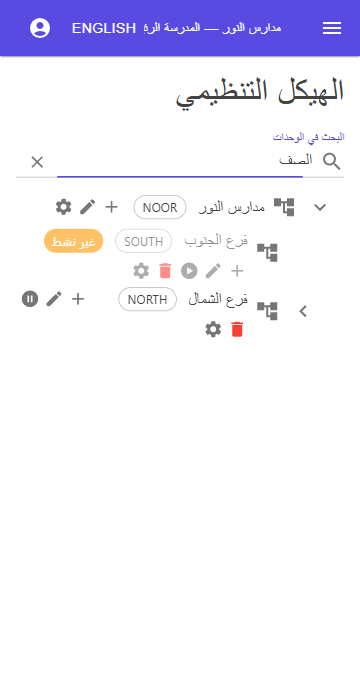
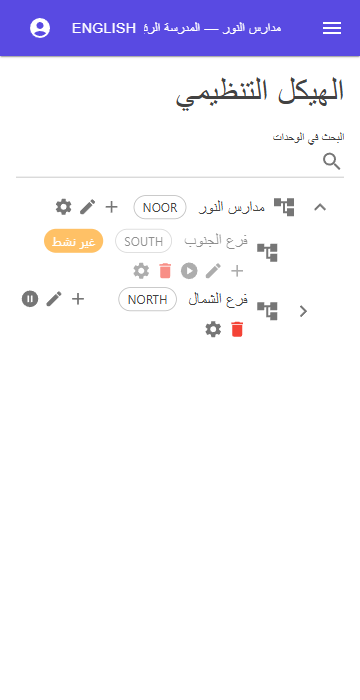
fix(client): shared ApiCalls.RunAsync handler helper, own-access deactivation warning, RTL test (QA review of #112)

diff --git a/src/Lms.Client/wwwroot/css/app.css b/src/Lms.Client/wwwroot/css/app.css
@@ -16,4 +16,5 @@ html, body { margin: 0; font-family: Roboto, "Segoe UI", Tahoma, sans-serif; }
 
 /* Org tree: inactive units greyed, search matches highlighted. */
 .lms-org-inactive { opacity: .6; }
-.lms-org-match .mud-typography { background: var(--mud-palette-warning-hover, rgba(255, 152, 0, .2)); border-radius: 4px; padding: 0 4px; }
+.lms-org-match .mud-typography { background: rgba(255, 193, 7, .45); border-radius: 4px; padding: 0 4px; }
+

diff --git a/tests/Lms.Client.Tests/Pages/Organization/OrgTreePageTests.cs b/tests/Lms.Client.Tests/Pages/Organization/OrgTreePageTests.cs
@@ -1,7 +1,11 @@
 using System.Globalization;
 using Bunit;
 using Lms.Client.Pages.Organization;
+using Lms.Client.Layout;
 using Lms.Client.Services.Api;
+using Lms.Shared.Me;
+using Microsoft.AspNetCore.Components;
+using Microsoft.Extensions.DependencyInjection;
 using Lms.Client.Tests.Support;
 using Lms.Shared.Authorization;
 using Lms.Shared.Organizations;
@@ -17,7 +21,10 @@ public sealed class OrgTreePageTests : ClientTestContext
     private OrgUnitNodeDto Unit(Guid id, Guid? parent, Guid level, string en, string status = "Active", bool children = false, params string[] blocked) =>
         new(id, parent, level, "ع-" + en, en, en.ToUpperInvariant(), parent is null ? 0 : 1, status, false, null, false, children, blocked);
 
-    private async Task<(IRenderedComponent<OrgTreePage> Page, IRenderedComponent<MudDialogProvider> Dialogs)> RenderPageAsync(params string[] permissions)
+    private Task<(IRenderedComponent<OrgTreePage> Page, IRenderedComponent<MudDialogProvider> Dialogs)> RenderPageAsync(params string[] permissions) =>
+        RenderPageForContextAsync(null, permissions);
+
+    private async Task<(IRenderedComponent<OrgTreePage> Page, IRenderedComponent<MudDialogProvider> Dialogs)> RenderPageForContextAsync(Guid? contextUnit, params string[] permissions)
     {
         Culture.Current = new CultureInfo("en");
         CultureInfo.CurrentUICulture = Culture.Current;
@@ -30,6 +37,12 @@ public sealed class OrgTreePageTests : ClientTestContext
             Unit(_inactiveId, _rootId, _schoolLevel, "Closed School", status: "Inactive"),
         ]);
         await GrantAsync(permissions);
+        if (contextUnit is { } unitId)
+        {
+            var assignment = Guid.NewGuid();
+            Api.Me = Api.Me with { Contexts = [new UserContextDto(assignment, Guid.NewGuid(), "م", "Org", unitId, "و", "Unit", "د", "Role")] };
+            await Context.SetAsync(assignment);
+        }
         Render<MudPopoverProvider>();
         var dialogs = Render<MudDialogProvider>();
         var page = Render<OrgTreePage>();
@@ -129,17 +142,119 @@ public sealed class OrgTreePageTests : ClientTestContext
         page.WaitForAssertion(() => Assert.NotEmpty(page.FindAll("[data-testid=org-no-matches]")), TimeSpan.FromSeconds(3));
     }
 
-    [Theory]
-    [InlineData("ar", "الهيكل التنظيمي")]
-    [InlineData("en", "Organization tree")]
-    public async Task Page_is_localized(string culture, string title)
+    // --- deactivating the caller's own access ---
+
+    [Fact]
+    public async Task Deactivating_the_callers_own_context_unit_asks_for_confirmation_and_cancel_changes_nothing()
     {
+        var (page, dialogs) = await RenderPageForContextAsync(_schoolId, All);
+
+        _ = page.Find($"[data-testid=org-toggle-{_schoolId}]").ClickAsync(new());
+        dialogs.WaitForElement("[data-testid=confirm-no]");
+        Assert.Contains("lose access", dialogs.Markup);
+        await dialogs.Find("[data-testid=confirm-no]").ClickAsync(new());
+
+        Assert.Empty(Org.StatusChanges);
+    }
+
+    [Fact]
+    public async Task Deactivating_the_callers_own_context_unit_proceeds_after_confirmation()
+    {
+        var (page, dialogs) = await RenderPageForContextAsync(_schoolId, All);
+
+        _ = page.Find($"[data-testid=org-toggle-{_schoolId}]").ClickAsync(new());
+        dialogs.WaitForElement("[data-testid=confirm-yes]");
+        await dialogs.Find("[data-testid=confirm-yes]").ClickAsync(new());
+
+        page.WaitForAssertion(() => Assert.Equal((_schoolId, "Inactive"), Assert.Single(Org.StatusChanges)));
+    }
+
+    [Fact]
+    public async Task Deactivating_an_ancestor_of_the_callers_context_unit_also_asks()
+    {
+        var childId = Guid.NewGuid();
+        Org.Units.Add(Unit(childId, _schoolId, _schoolLevel, "Grade 1"));
+        var (page, dialogs) = await RenderPageForContextAsync(childId, All);
+
+        _ = page.Find($"[data-testid=org-toggle-{_schoolId}]").ClickAsync(new());
+        dialogs.WaitForElement("[data-testid=confirm-yes]");
+
+        Assert.Empty(Org.StatusChanges);
+    }
+
+    [Fact]
+    public async Task Deactivating_an_unrelated_unit_does_not_ask()
+    {
+        var (page, _) = await RenderPageForContextAsync(_schoolId, All);
+
+        await page.Find($"[data-testid=org-toggle-{_blockedId}]").ClickAsync(new());
+
+        page.WaitForAssertion(() => Assert.Equal((_blockedId, "Inactive"), Assert.Single(Org.StatusChanges)));
+    }
+
+    [Fact]
+    public async Task Reactivating_never_asks()
+    {
+        var (page, _) = await RenderPageForContextAsync(_inactiveId, All);
+
+        await page.Find($"[data-testid=org-toggle-{_inactiveId}]").ClickAsync(new());
+
+        page.WaitForAssertion(() => Assert.Equal((_inactiveId, "Active"), Assert.Single(Org.StatusChanges)));
+    }
+
+    // --- error handling in every handler ---
+
+    [Fact]
+    public async Task Stale_context_during_delete_goes_to_the_chooser()
+    {
+        Org.UnitDeleteFailure = new ApiContextException("invalid_context");
+        var (page, dialogs) = await RenderPageAsync(All);
+
+        _ = page.Find($"[data-testid=org-delete-{_schoolId}]").ClickAsync(new());
+        dialogs.WaitForElement("[data-testid=confirm-yes]");
+        await dialogs.Find("[data-testid=confirm-yes]").ClickAsync(new());
+
+        page.WaitForAssertion(() => Assert.EndsWith("/choose-context", Services.GetRequiredService<NavigationManager>().Uri));
+        Assert.Empty(page.FindAll("[data-testid=org-error]"));
+    }
+
+    [Fact]
+    public async Task Network_error_on_toggle_shows_the_error_message()
+    {
+        Org.StatusFailure = new HttpRequestException("offline");
         var (page, _) = await RenderPageAsync(All);
-        Culture.Current = new CultureInfo(culture);
+
+        await page.Find($"[data-testid=org-toggle-{_blockedId}]").ClickAsync(new());
+
+        page.WaitForAssertion(() => Assert.Contains("Something went wrong", page.Find("[data-testid=org-error]").TextContent));
+    }
+
+    [Fact]
+    public async Task Failing_level_type_load_when_adding_shows_the_error_message()
+    {
+        Org.LevelsFailure = new HttpRequestException("offline");
+        var (page, _) = await RenderPageAsync(All);
+
+        await page.Find($"[data-testid=org-add-{_schoolId}]").ClickAsync(new());
+
+        page.WaitForAssertion(() => Assert.Contains("Something went wrong", page.Find("[data-testid=org-error]").TextContent));
+    }
+
+    // --- RTL ---
+
+    [Fact]
+    public async Task Tree_renders_rtl_in_arabic()
+    {
+        Org.Units.Add(Unit(_rootId, null, _groupLevel, "Root", children: true));
+        await GrantAsync(All);
+        Culture.Current = new CultureInfo("ar");
         CultureInfo.CurrentUICulture = Culture.Current;
-        var fresh = Render<OrgTreePage>();
-        fresh.WaitForElement("[data-testid=org-title]");
-        Assert.Contains(title, fresh.Find("[data-testid=org-title]").TextContent);
-        Assert.NotNull(page);
+
+        var layout = Render<MainLayout>(p => p.Add(l => l.Body, (RenderFragment)(b => { b.OpenComponent<OrgTreePage>(0); b.CloseComponent(); })));
+
+        layout.WaitForElement($"[data-testid=org-node-{_rootId}]");
+        Assert.Equal("rtl", layout.Find("[data-testid=app-root]").GetAttribute("dir"));
+        Assert.Contains("ع-Root", layout.Find($"[data-testid=org-node-{_rootId}]").TextContent);
+        Assert.Contains("الهيكل التنظيمي", layout.Find("[data-testid=org-title]").TextContent);
     }
 }

diff --git a/tests/Lms.Client.Tests/Services/ApiCallsTests.cs b/tests/Lms.Client.Tests/Services/ApiCallsTests.cs
@@ -1,0 +1,79 @@
+using System.Globalization;
+using Bunit;
+using Lms.Client.Resources;
+using Lms.Client.Services;
+using Lms.Client.Services.Api;
+using Lms.Client.Tests.Support;
+using Microsoft.AspNetCore.Components;
+using Microsoft.Extensions.DependencyInjection;
+using Microsoft.Extensions.Localization;
+
+namespace Lms.Client.Tests.Services;
+
+public sealed class ApiCallsTests : ClientTestContext
+{
+    private NavigationManager Nav => Services.GetRequiredService<NavigationManager>();
+    private IStringLocalizer<SharedResource> Loc => Services.GetRequiredService<IStringLocalizer<SharedResource>>();
+
+    private async Task<(bool Ok, List<string> Errors)> RunAsync(Func<Task> action)
+    {
+        CultureInfo.CurrentUICulture = new CultureInfo("en");
+        var errors = new List<string>();
+        var ok = await ApiCalls.RunAsync(action, Nav, Loc, errors.Add);
+        return (ok, errors);
+    }
+
+    [Fact]
+    public async Task Success_returns_true_without_errors()
+    {
+        var (ok, errors) = await RunAsync(() => Task.CompletedTask);
+        Assert.True(ok);
+        Assert.Empty(errors);
+    }
+
+    [Fact]
+    public async Task Problem_is_reported_with_its_error_resource()
+    {
+        var (ok, errors) = await RunAsync(() => throw new ApiProblemException(409, "code_taken", null, null));
+        Assert.False(ok);
+        Assert.Equal("This code is already used.", Assert.Single(errors));
+    }
+
+    [Fact]
+    public async Task Policy_block_reports_the_server_detail()
+    {
+        var (_, errors) = await RunAsync(() => throw new ApiProblemException(403, "BlockedByPolicy", "Blocked by policy", null));
+        Assert.Equal("Blocked by policy", Assert.Single(errors));
+    }
+
+    [Fact]
+    public async Task Stale_context_goes_to_chooser_without_an_error_message()
+    {
+        var (ok, errors) = await RunAsync(() => throw new ApiContextException("invalid_context"));
+        Assert.False(ok);
+        Assert.Empty(errors);
+        Assert.EndsWith("/choose-context", Nav.Uri);
+    }
+
+    [Fact]
+    public async Task Forbidden_goes_to_the_forbidden_page_without_an_error_message()
+    {
+        var (_, errors) = await RunAsync(() => throw new ApiForbiddenException());
+        Assert.Empty(errors);
+        Assert.EndsWith("/forbidden", Nav.Uri);
+    }
+
+    [Fact]
+    public async Task Network_failure_reports_the_generic_message()
+    {
+        var (ok, errors) = await RunAsync(() => throw new HttpRequestException("offline"));
+        Assert.False(ok);
+        Assert.Equal("Something went wrong. Try again.", Assert.Single(errors));
+    }
+
+    [Fact]
+    public async Task Other_exceptions_are_not_swallowed()
+    {
+        await Assert.ThrowsAsync<InvalidOperationException>(() => RunAsync(() => throw new InvalidOperationException("bug")));
+    }
+}

diff --git a/src/Lms.Client/Services/ApiCalls.cs b/src/Lms.Client/Services/ApiCalls.cs
@@ -1,4 +1,6 @@
+using Lms.Client.Resources;
 using Lms.Client.Services.Api;
+using Microsoft.Extensions.Localization;
 using Microsoft.AspNetCore.Components;
 using Microsoft.AspNetCore.Components.WebAssembly.Authentication;
 
@@ -23,6 +25,38 @@ public static class ApiCalls
         catch (HttpRequestException)
         {
             return (default, true);
+        }
+    }
+
+    /// <summary>
+    /// Runs a write/action handler with the standard failure handling, so no exception reaches the global error bar:
+    /// redirects first (stale context → chooser, forbidden → Forbidden page, missing token → login), then
+    /// <see cref="ApiProblemException"/> → <paramref name="onError"/> with <see cref="ProblemText"/>, then any other
+    /// <see cref="HttpRequestException"/> → <paramref name="onError"/> with the generic message.
+    /// Returns true on success; false when it failed or the user was redirected (<paramref name="onError"/> is then not called
+    /// for redirects).
+    /// </summary>
+    public static async Task<bool> RunAsync(
+        Func<Task> action, NavigationManager navigation, IStringLocalizer<SharedResource> localizer, Action<string> onError)
+    {
+        try
+        {
+            await action();
+            return true;
+        }
+        catch (Exception ex) when (TryRedirect(ex, navigation))
+        {
+            return false;
+        }
+        catch (ApiProblemException ex)
+        {
+            onError(ProblemText.For(ex, localizer));
+            return false;
+        }
+        catch (HttpRequestException)
+        {
+            onError(localizer["Error_Generic"].Value);
+            return false;
         }
     }
 

diff --git a/tests/Lms.Client.Tests/Support/StubApis.cs b/tests/Lms.Client.Tests/Support/StubApis.cs
@@ -50,6 +50,8 @@ public sealed class StubOrgApi : IOrgApi
     public List<(Guid Id, string Status)> StatusChanges { get; } = [];
     public List<Guid> UnitsDeleted { get; } = [];
     public Exception? UnitDeleteFailure { get; set; }
+    public Exception? StatusFailure { get; set; }
+    public Exception? LevelsFailure { get; set; }
 
     public Task<IReadOnlyList<OrgUnitNodeDto>> GetOrgUnitsAsync(string? search, CancellationToken ct = default)
     {
@@ -78,6 +80,7 @@ public sealed class StubOrgApi : IOrgApi
 
     public Task SetOrgUnitStatusAsync(Guid id, SetOrgUnitStatusRequest request, CancellationToken ct = default)
     {
+        if (StatusFailure is not null) return Task.FromException(StatusFailure);
         StatusChanges.Add((id, request.Status));
         var i = Units.FindIndex(u => u.Id == id);
         Units[i] = Units[i] with { Status = request.Status };
@@ -93,7 +96,9 @@ public sealed class StubOrgApi : IOrgApi
     }
 
     public Task<IReadOnlyList<LevelTypeDto>> GetLevelTypesAsync(CancellationToken ct = default) =>
-        Task.FromResult<IReadOnlyList<LevelTypeDto>>(Levels.OrderBy(l => l.Order).ToList());
+        LevelsFailure is not null
+            ? Task.FromException<IReadOnlyList<LevelTypeDto>>(LevelsFailure)
+            : Task.FromResult<IReadOnlyList<LevelTypeDto>>(Levels.OrderBy(l => l.Order).ToList());
 
     public Task<LevelTypeDto> CreateLevelTypeAsync(SaveLevelTypeRequest request, CancellationToken ct = default)
     {
